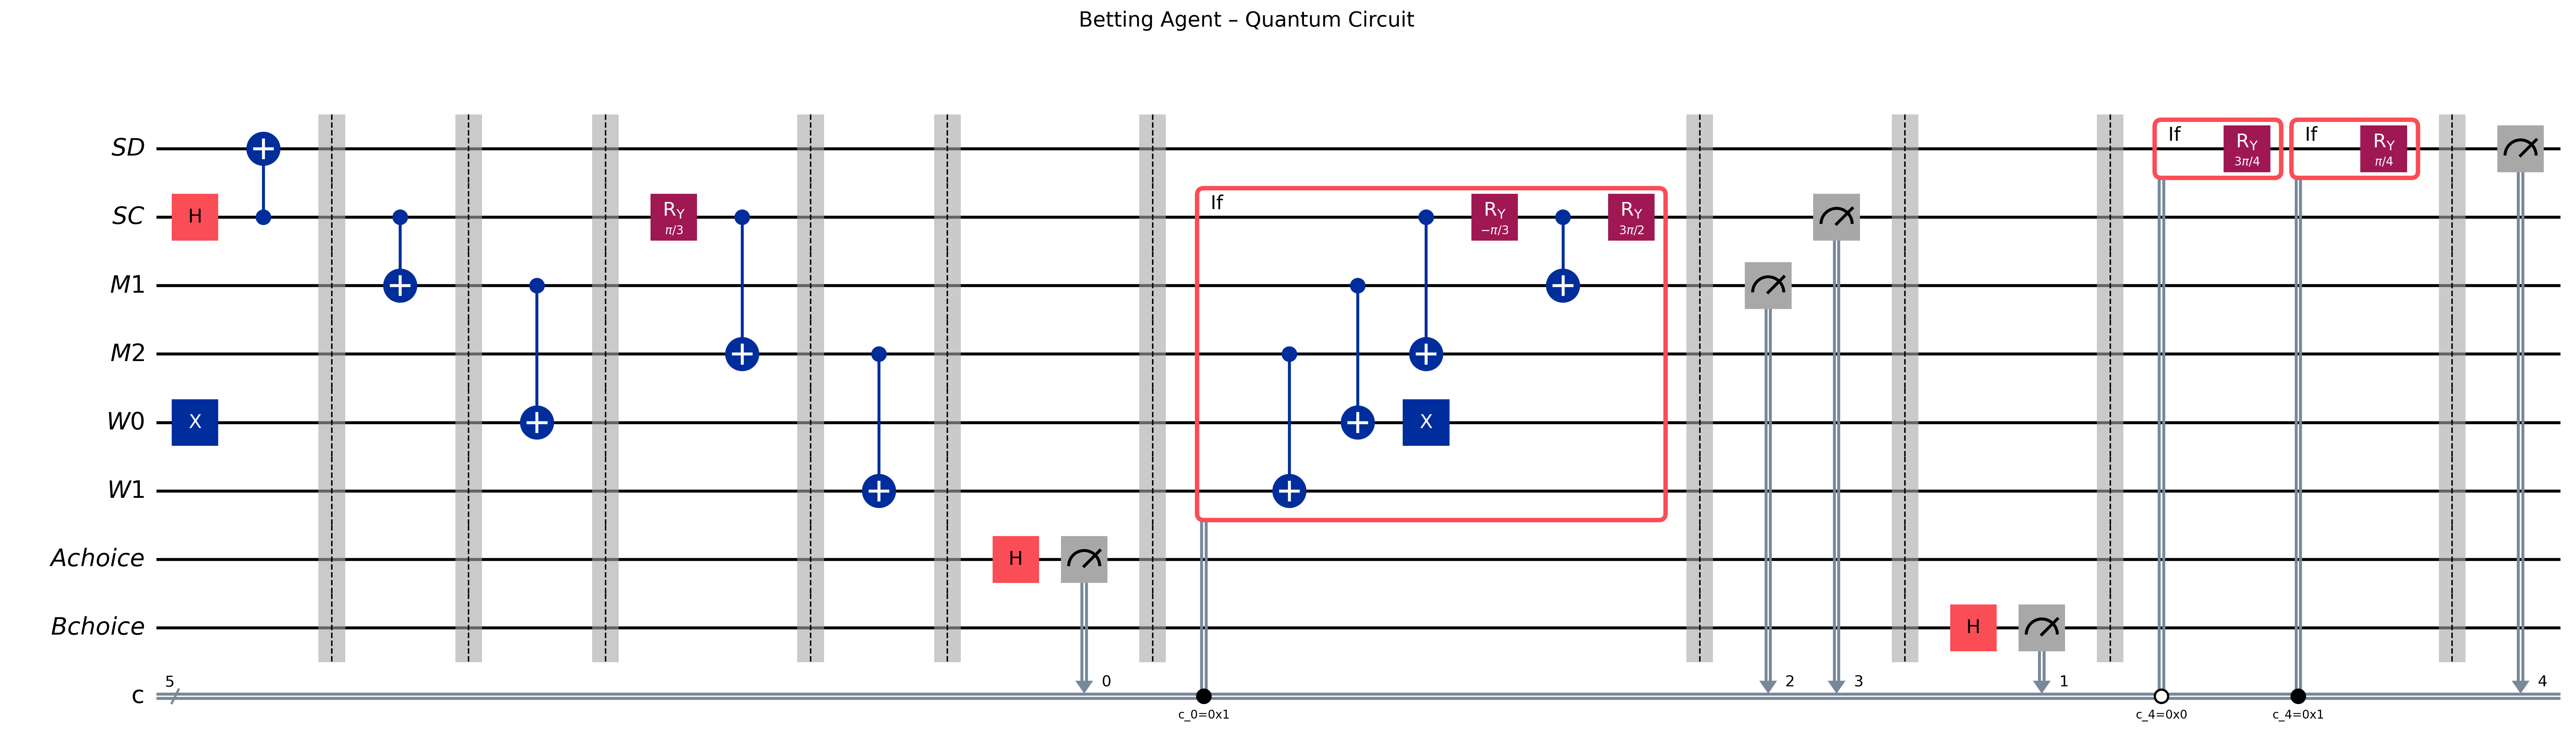
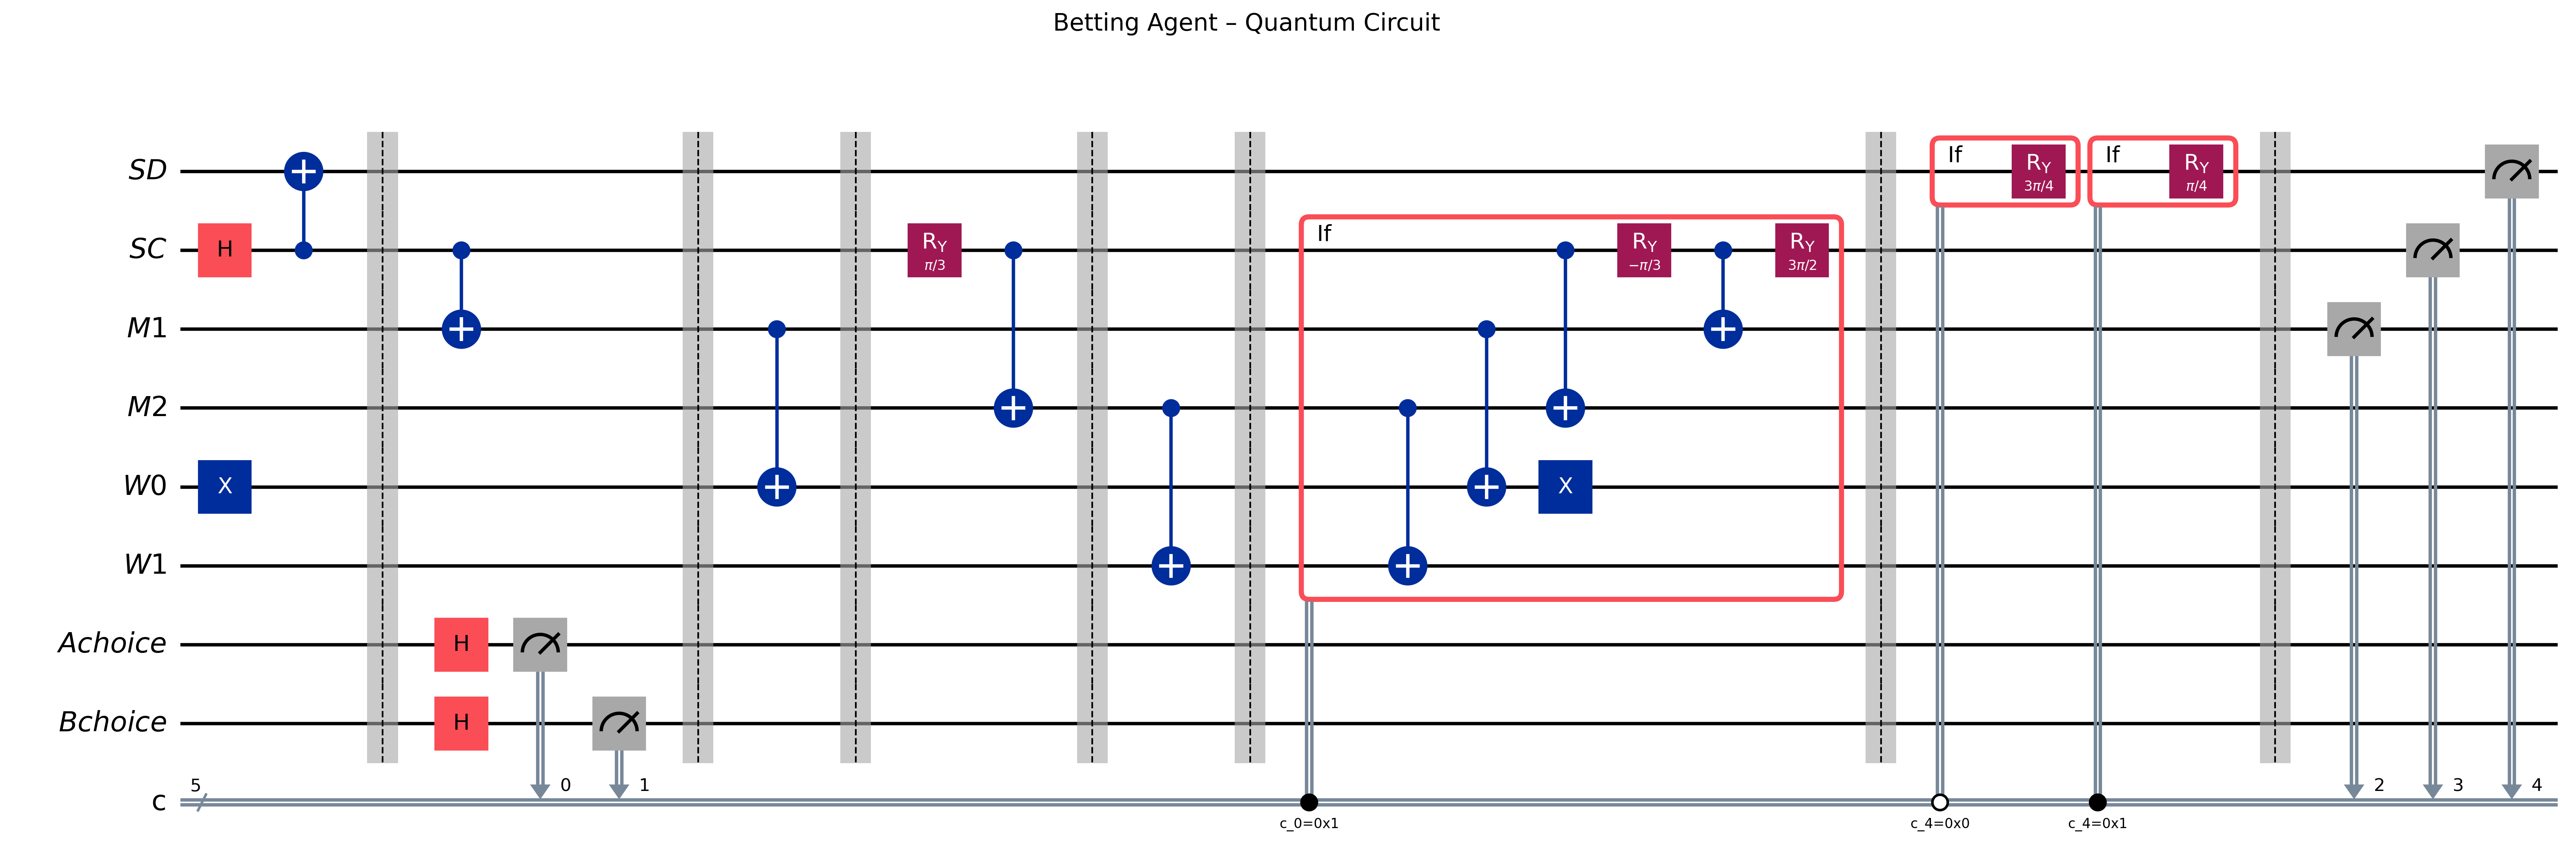
after debug session that didnt work

diff --git a/ewfs/agents.py b/ewfs/agents.py
@@ -38,9 +38,17 @@ def build_circuit_betting() -> QuantumCircuit:
     # wallet initialization
     qc.x(qr_W0[0])
 
+    # x,y,c simultaneously:
+
     # Charlie's 1st measurement:
     qc.barrier(qr_SC[0], qr_SD[0], qr_M1[0], qr_M2[0], qr_W0[0], qr_W1[0], qr_A_choice[0], qr_B_choice[0])
     qc.cx(qr_SC[0], qr_M1[0])
+    # Alice's choice:
+    qc.h(qr_A_choice[0])
+    qc.measure(qr_A_choice[0], c[0])
+    qc.h(qr_B_choice[0])
+    qc.measure(qr_B_choice[0], c[1])
+
 
     # Charlies bet: wallet update
     qc.barrier(qr_SC[0], qr_SD[0], qr_M1[0], qr_M2[0], qr_W0[0], qr_W1[0], qr_A_choice[0], qr_B_choice[0])
@@ -55,11 +63,6 @@ def build_circuit_betting() -> QuantumCircuit:
     qc.barrier(qr_SC[0], qr_SD[0], qr_M1[0], qr_M2[0], qr_W0[0], qr_W1[0], qr_A_choice[0], qr_B_choice[0])
     qc.cx(qr_M2[0], qr_W1[0]) # Wallet update based on outcome of second measurement
 
-    # Alice's choice:
-    qc.barrier(qr_SC[0], qr_SD[0], qr_M1[0], qr_M2[0], qr_W0[0], qr_W1[0], qr_A_choice[0], qr_B_choice[0])
-    qc.h(qr_A_choice[0])
-    qc.measure(qr_A_choice[0], c[0])
-
     # Conditional block for setting A=1 (Undo and measure system):
     qc.barrier(qr_SC[0], qr_SD[0], qr_M1[0], qr_M2[0], qr_W0[0], qr_W1[0], qr_A_choice[0], qr_B_choice[0])
     with qc.if_test((c[0], 1)):
@@ -71,16 +74,6 @@ def build_circuit_betting() -> QuantumCircuit:
         qc.x(qr_W0[0])
         qc.ry(alpha, qr_SC[0])
 
-    # Alice's measurement(s)
-    qc.barrier(qr_SC[0], qr_SD[0], qr_M1[0], qr_M2[0], qr_W0[0], qr_W1[0], qr_A_choice[0], qr_B_choice[0])
-    qc.measure(qr_M1[0], c[2]) # Alice measurement for setting A1 (ask Charlie)
-    qc.measure(qr_SC[0], c[3]) # Alice measurement for setting A2 (Undo)
-
-    # Bob's choice operation
-    qc.barrier(qr_SC[0], qr_SD[0], qr_M1[0], qr_M2[0], qr_W0[0], qr_W1[0], qr_A_choice[0], qr_B_choice[0])
-    qc.h(qr_B_choice[0])
-    qc.measure(qr_B_choice[0], c[1])
-
     # Bob's measurements conditioned on setting:
     qc.barrier(qr_SC[0], qr_SD[0], qr_M1[0], qr_M2[0], qr_W0[0], qr_W1[0], qr_A_choice[0], qr_B_choice[0])
     with qc.if_test((c[4], 0)): # setting B=1
@@ -88,8 +81,12 @@ def build_circuit_betting() -> QuantumCircuit:
     with qc.if_test((c[4], 1)): # setting B=2
         qc.ry(beta2, qr_SD[0])
 
-    # Bob's measurement
+    # Alice's measurement(s)
     qc.barrier(qr_SC[0], qr_SD[0], qr_M1[0], qr_M2[0], qr_W0[0], qr_W1[0], qr_A_choice[0], qr_B_choice[0])
+    qc.measure(qr_M1[0], c[2]) # Alice measurement for setting A1 (ask Charlie)
+    qc.measure(qr_SC[0], c[3]) # Alice measurement for setting A2 (Undo)
+
+    # Bob's measurement
     qc.measure(qr_SD[0], c[4])
 
     return qc
@@ -187,19 +184,16 @@ def build_circuit_reflex() -> QuantumCircuit:
     qc.h(qr_B_choice[0])
     qc.h(qr_SC[0])
     qc.h(qr_A_choice[0])
+    qc.measure(qr_A_choice[0], c[0])
     qc.cx(qr_SC[0], qr_SD[0])
+    qc.measure(qr_B_choice[0], c[1])
     qc.cx(qr_SC[0], qr_M[0])
-    qc.barrier(qr_SC[0], qr_M[0], qr_L[0], qr_B_choice[0])
     qc.cx(qr_M[0], qr_L[0])
 
     with qc.if_test((c[0], 1)):
         qc.cx(qr_M[0], qr_L[0])
         qc.cx(qr_SC[0], qr_M[0])
         qc.ry(alpha, qr_SC[0])
-
-    # Final measurements at the end.
-    qc.measure(qr_A_choice[0], c[0])
-    qc.measure(qr_B_choice[0], c[1])
 
     with qc.if_test((c[1], 0)):
         qc.ry(beta1, qr_SD[0])
@@ -212,3 +206,4 @@ def build_circuit_reflex() -> QuantumCircuit:
     qc.measure(qr_SD[0], c[4])
 
     return qc
+

diff --git a/ewfs/run.py b/ewfs/run.py
@@ -35,7 +35,7 @@ FAKE_HARDWARE_SHOTS = 10_000
 
 # Real hardware
 DO_REAL_HARDWARE = True
-REAL_HARDWARE_SHOTS = 300
+REAL_HARDWARE_SHOTS = 100
 
 # Backends to use
 REAL_BACKENDS = {